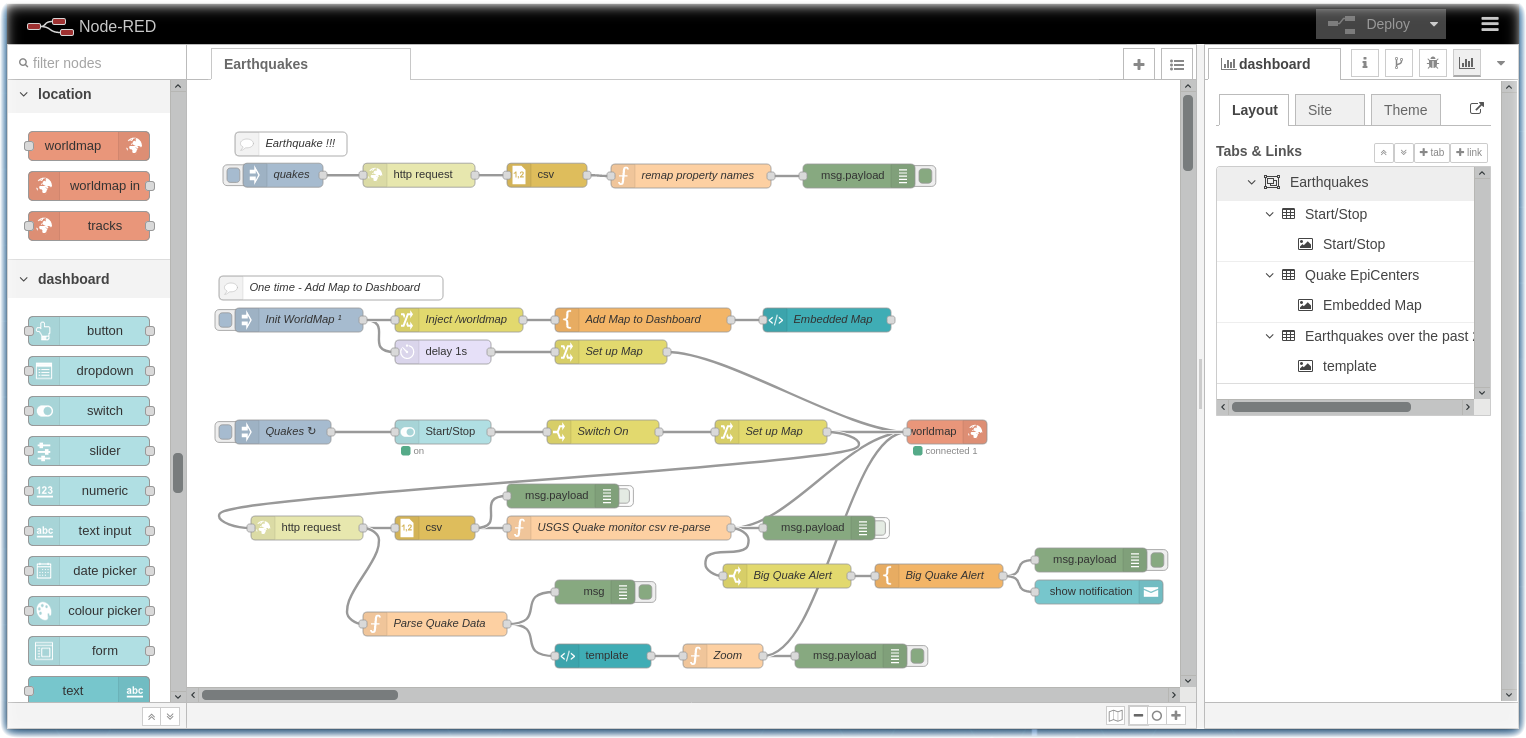
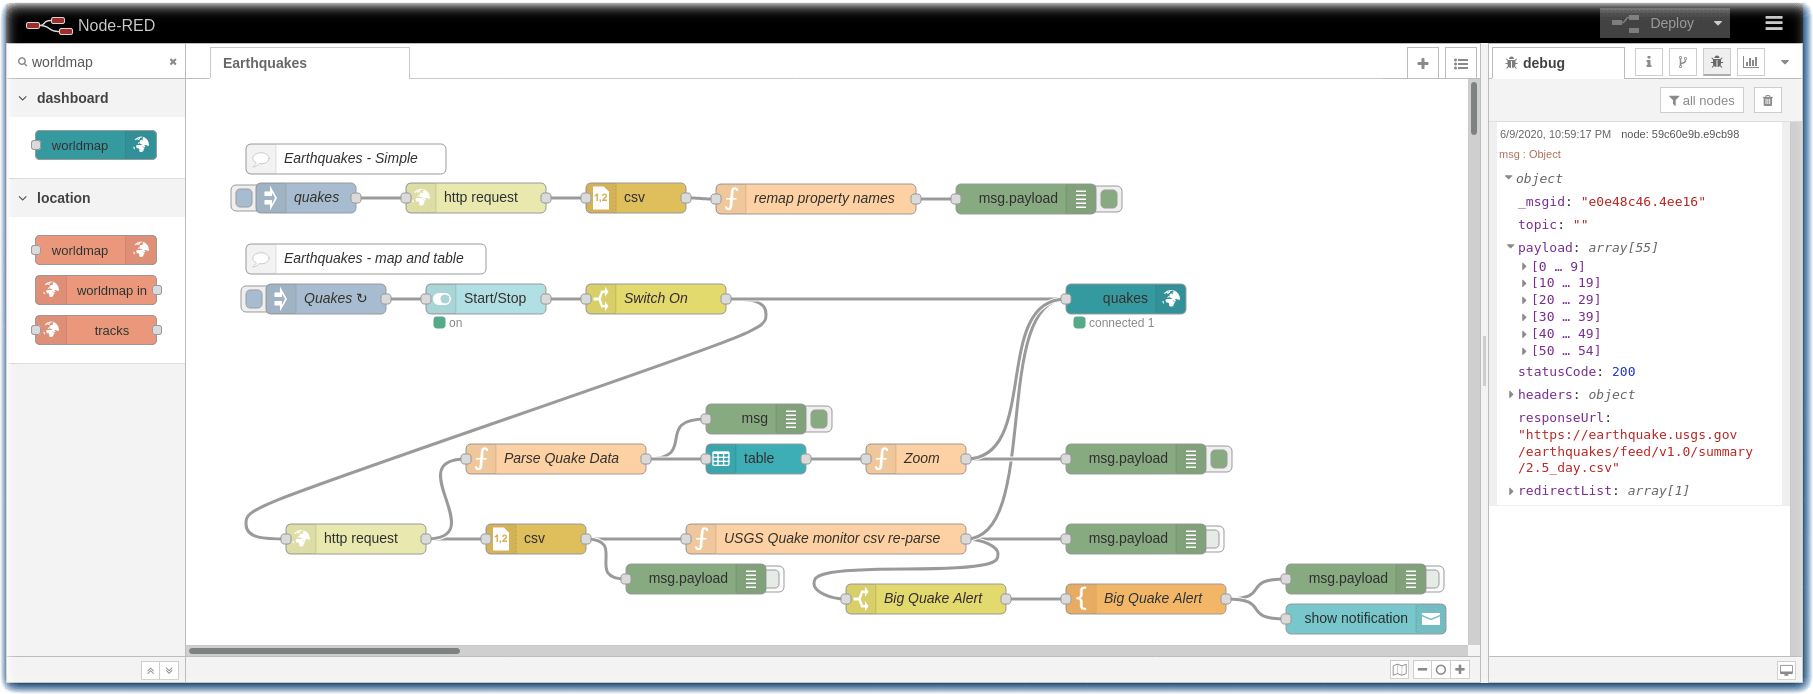
Worldmap and Table nodes

Changed region(s): [[0.0, 0.0, 1.0, 0.9986], [0.462, 0.4841, 0.4928, 0.5144]]

diff --git a/README.md b/README.md
@@ -11,10 +11,11 @@ This example flow and Node-RED Dashboard might be useful as part of a [Call for 
 - [Add the following nodes](https://nodered.org/docs/user-guide/runtime/adding-nodes) to your Node-RED palette
   - [node-red-dashboard](https://flows.nodered.org/node/node-red-dashboard)
   - [node-red-contrib-web-worldmap](https://flows.nodered.org/node/node-red-contrib-web-worldmap)
+  - [node-red-node-ui-table](https://flows.nodered.org/node/node-red-node-ui-table)
 
 ## Node-RED flow in this repository:
 
-- Import the [earthquakes flow](earthquakes.json) 
+- Import the [earthquakes flow](earthquakes.json)
 
 ---
 ### A flow that displays Earthquake Alerts on a map
@@ -26,7 +27,7 @@ This example flow and Node-RED Dashboard might be useful as part of a [Call for 
 
 ![Earthquake Alert flow](screenshots/Earthquake-flow.png?raw=true "Earthquake flow")
 
-![Earthquake Alert LosAngeles](screenshots/EarthquakeAlert-LosAngeles.png?raw=true "Earthquake Dashboard")
+![Earthquake Alert LosAngeles](screenshots/EarthquakeAlert-PuertoRico.png?raw=true "Earthquake Dashboard")
 ---
 
 ### Authors
